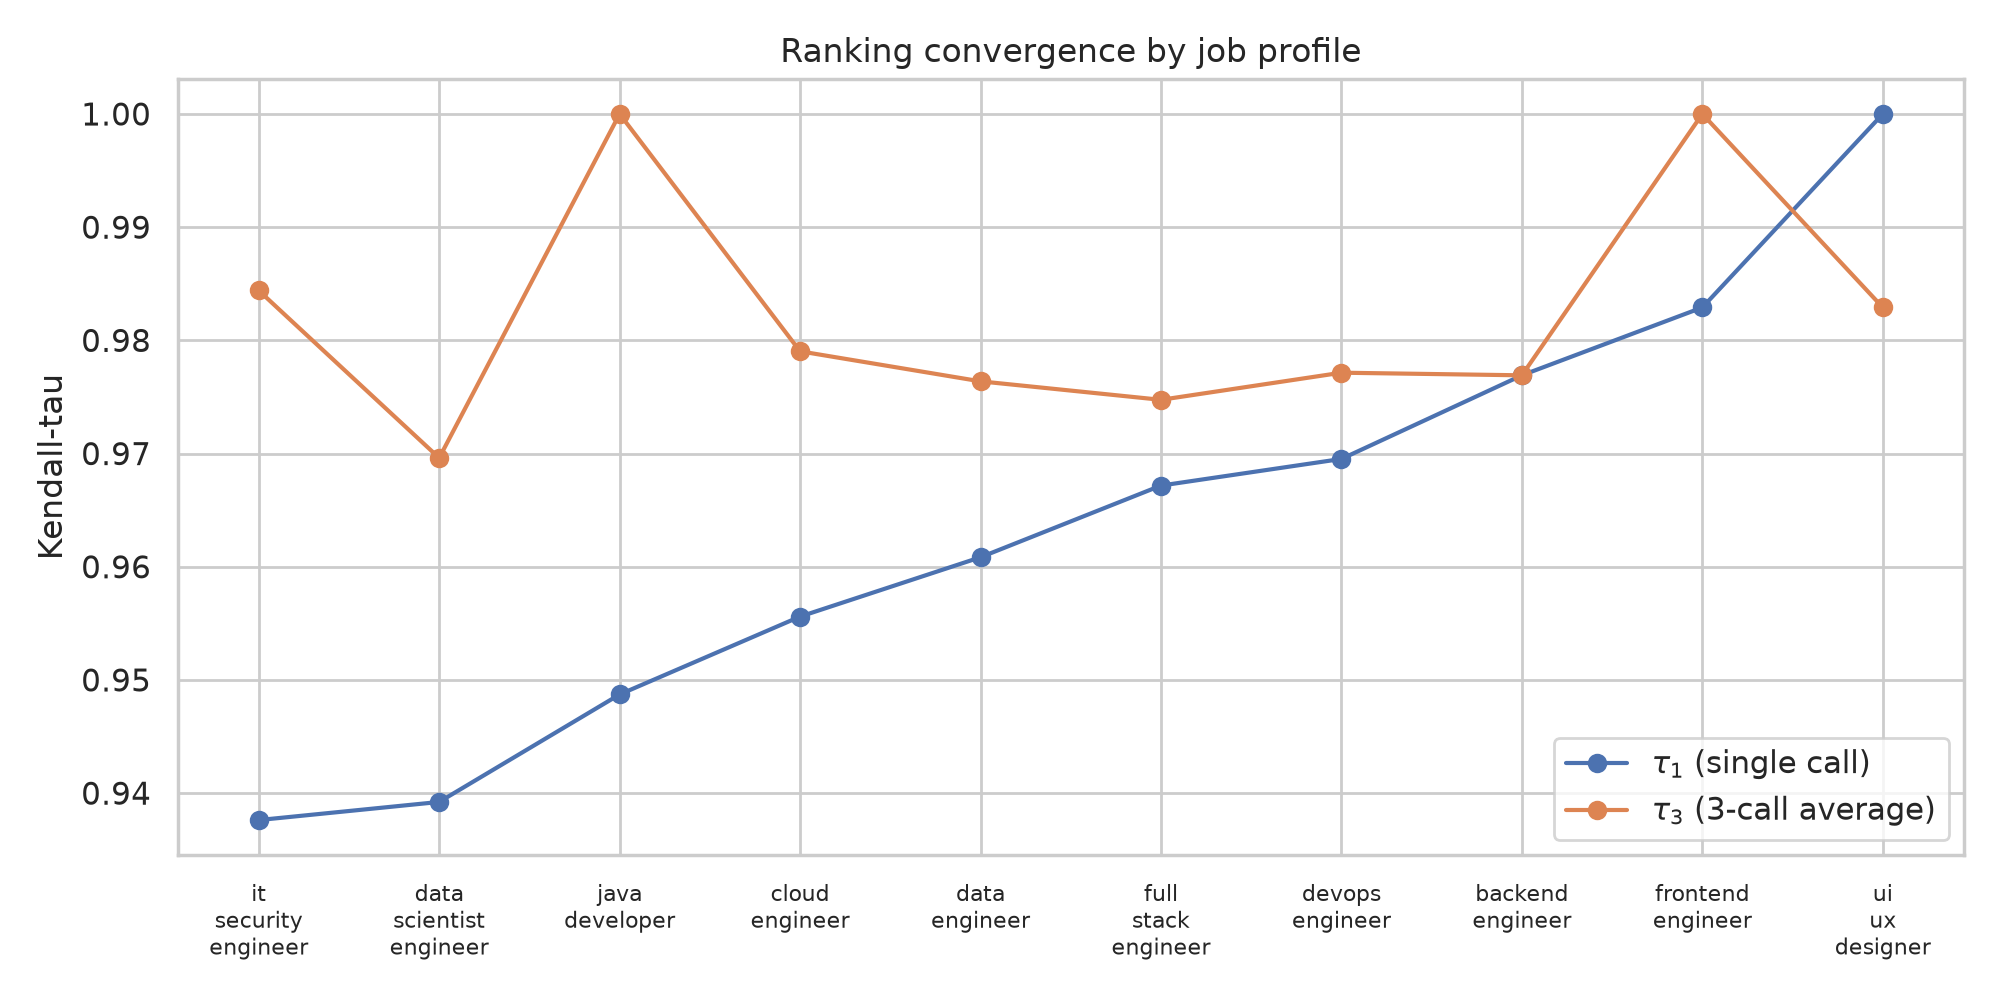
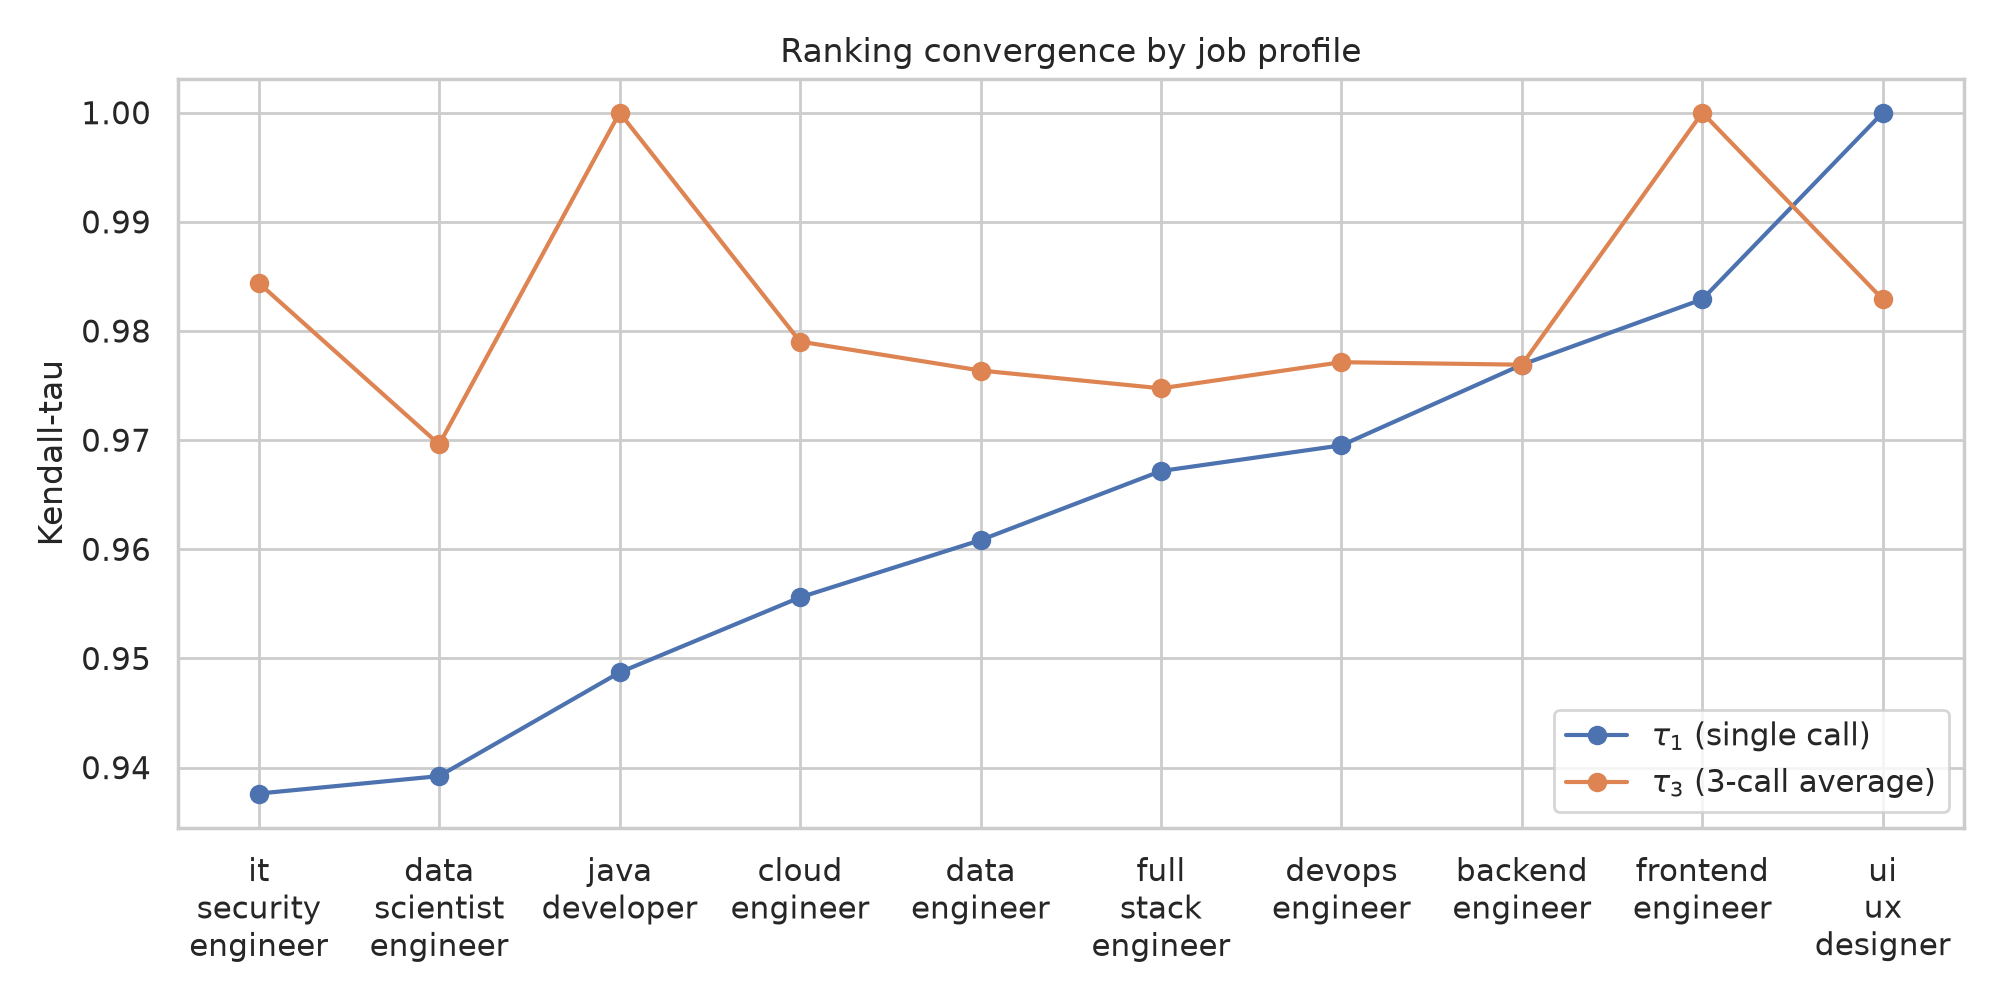
style: enlarge job-profile label font on the convergence figure

diff --git a/scripts/generate_convergence_figure.py b/scripts/generate_convergence_figure.py
@@ -51,7 +51,7 @@ def main(run_id: str, output_path: Path) -> None:
     ax.set_ylabel("Kendall-tau")
     ax.set_title("Ranking convergence by job profile")
     ax.set_xticks(range(len(labels)))
-    ax.set_xticklabels(wrapped_labels, rotation=0, fontsize=8)
+    ax.set_xticklabels(wrapped_labels, rotation=0, fontsize=11)
     ax.legend(loc="lower right")
     fig.tight_layout()
 
